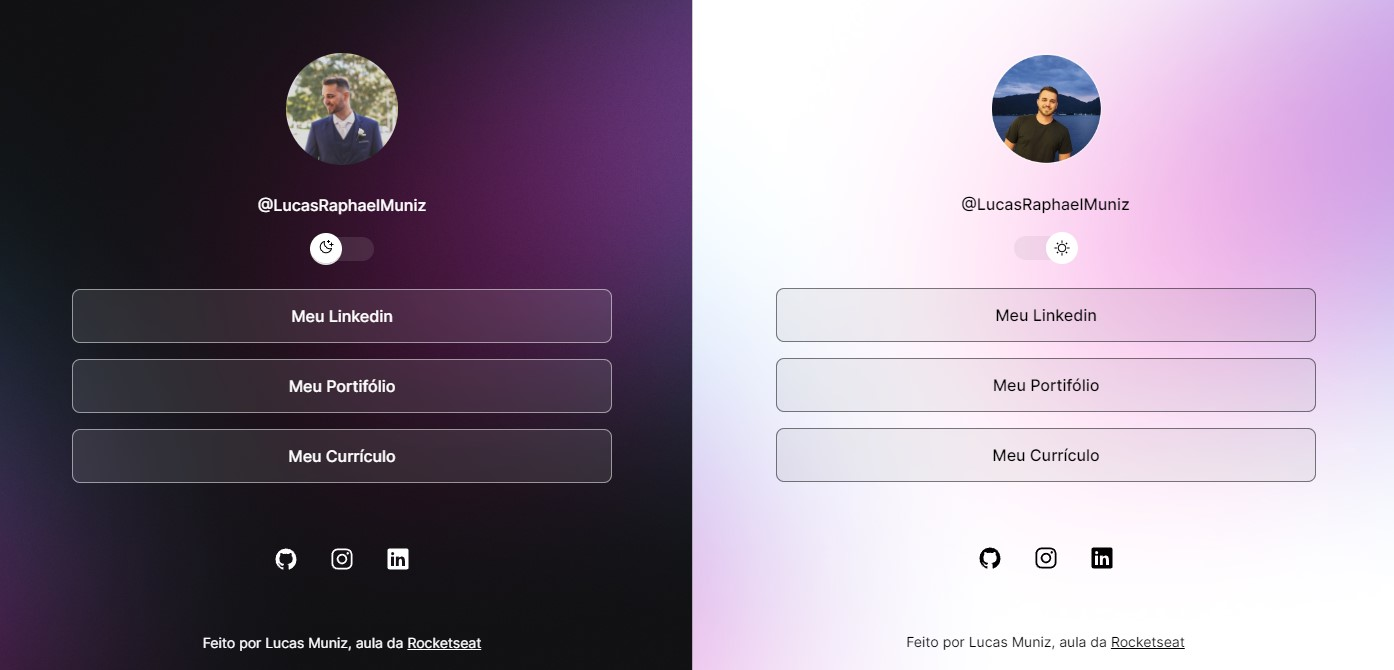
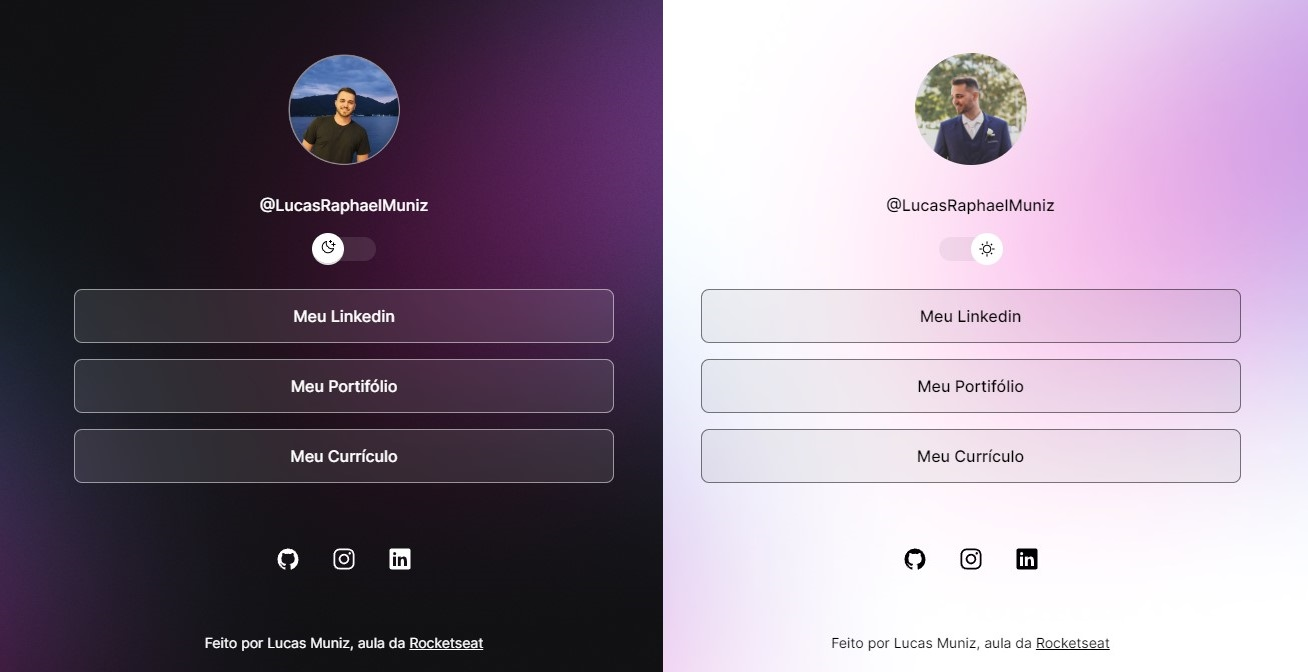
update photo perfil

diff --git a/script.js b/script.js
@@ -4,10 +4,13 @@ function toggleMode() {
 
   const img = document.querySelector("#profile img")
   if (html.classList.contains("light")) {
-    img.setAttribute("src", "./assets/avatar-light.png")
+    img.setAttribute(
+      "src",
+      "https://avatars.githubusercontent.com/u/114521141?v=4"
+    )
     img.setAttribute("alt", "Foto de perfil light-mode")
-  } else {
-    img.setAttribute("src", "https://avatars.githubusercontent.com/u/114521141?v=4")
+  } else {    
+    img.setAttribute("src", "./assets/avatar-light.png")
     img.setAttribute("alt", "Foto de perfil dark-mode")
   }
 
